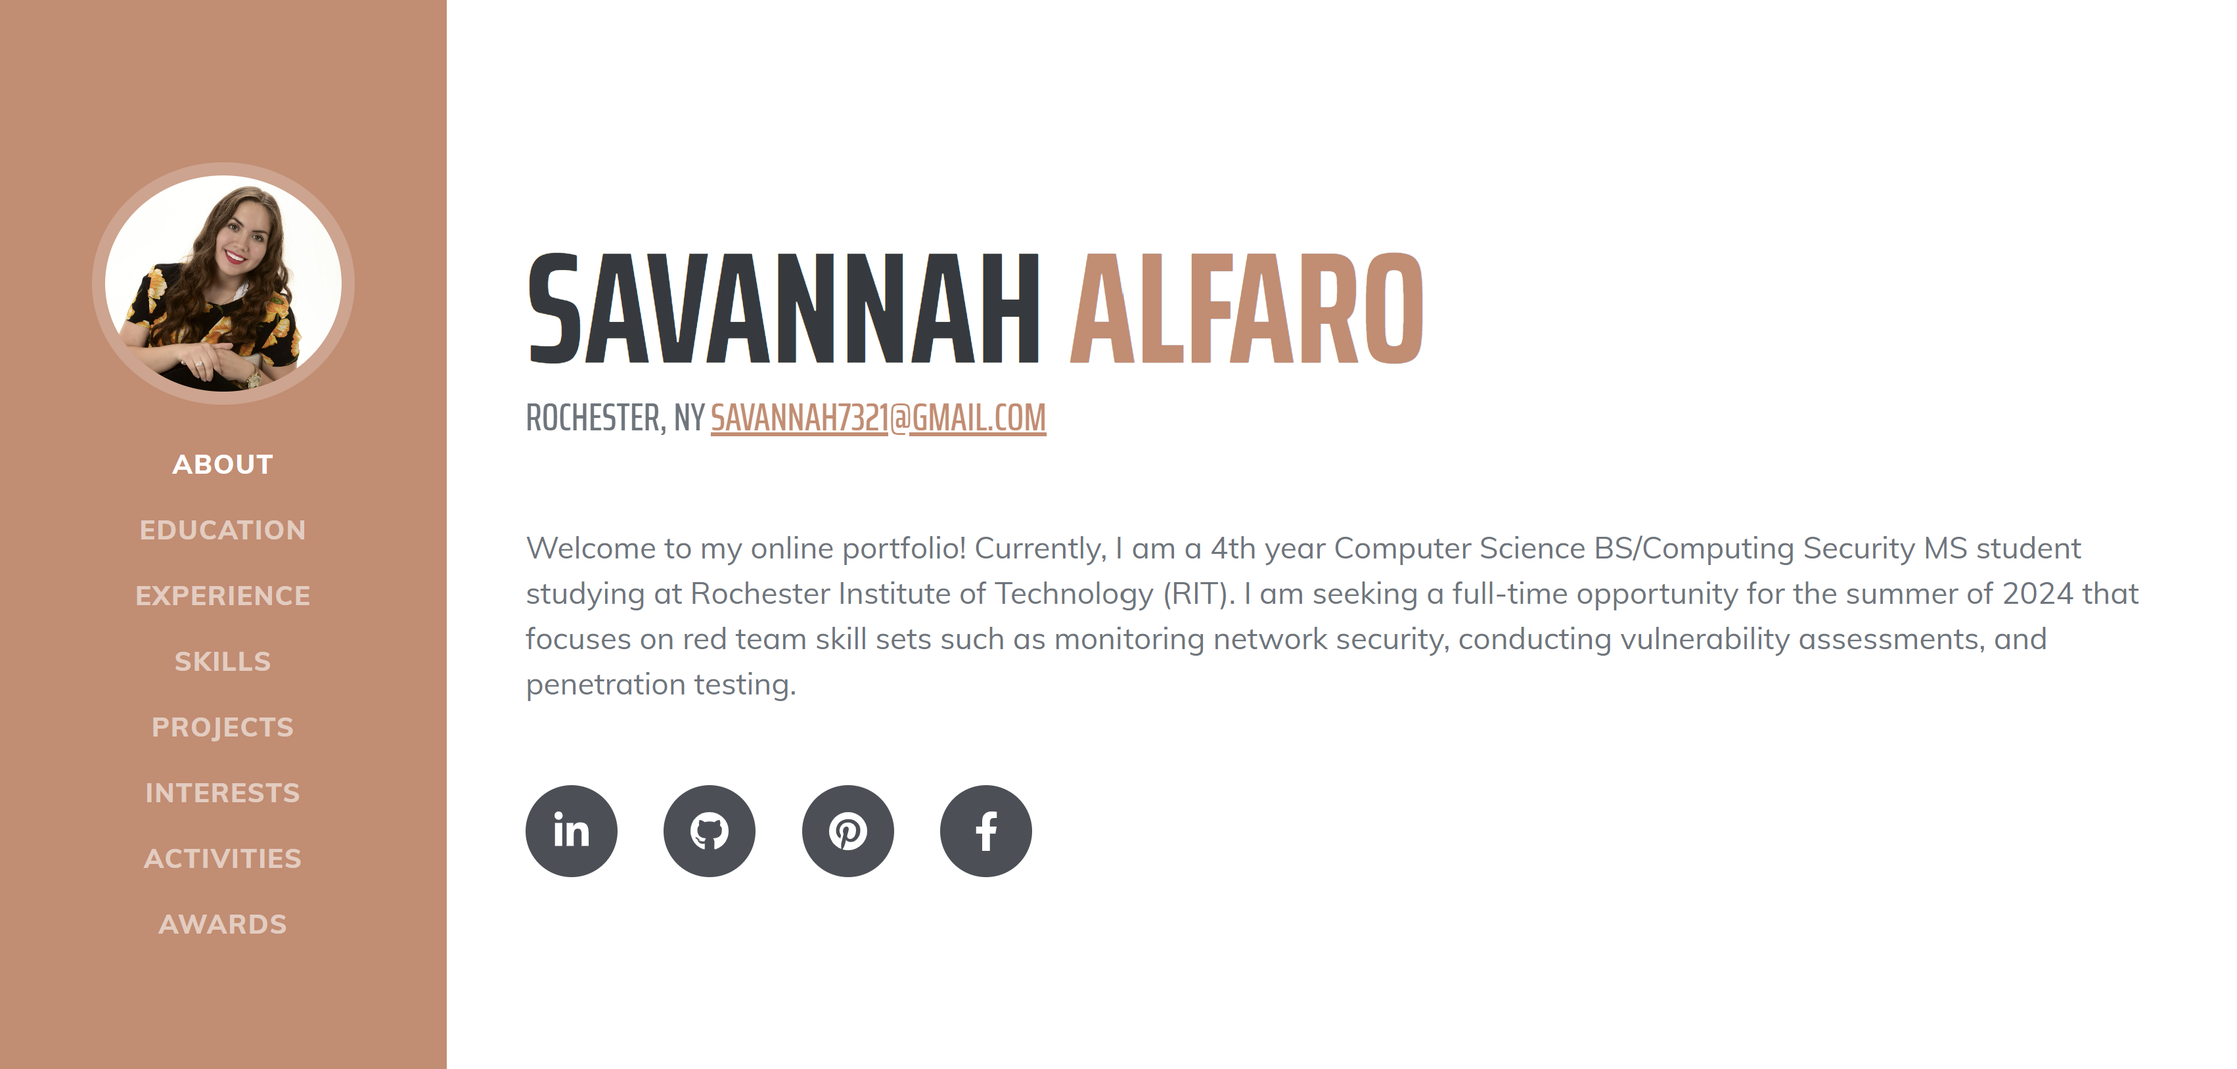
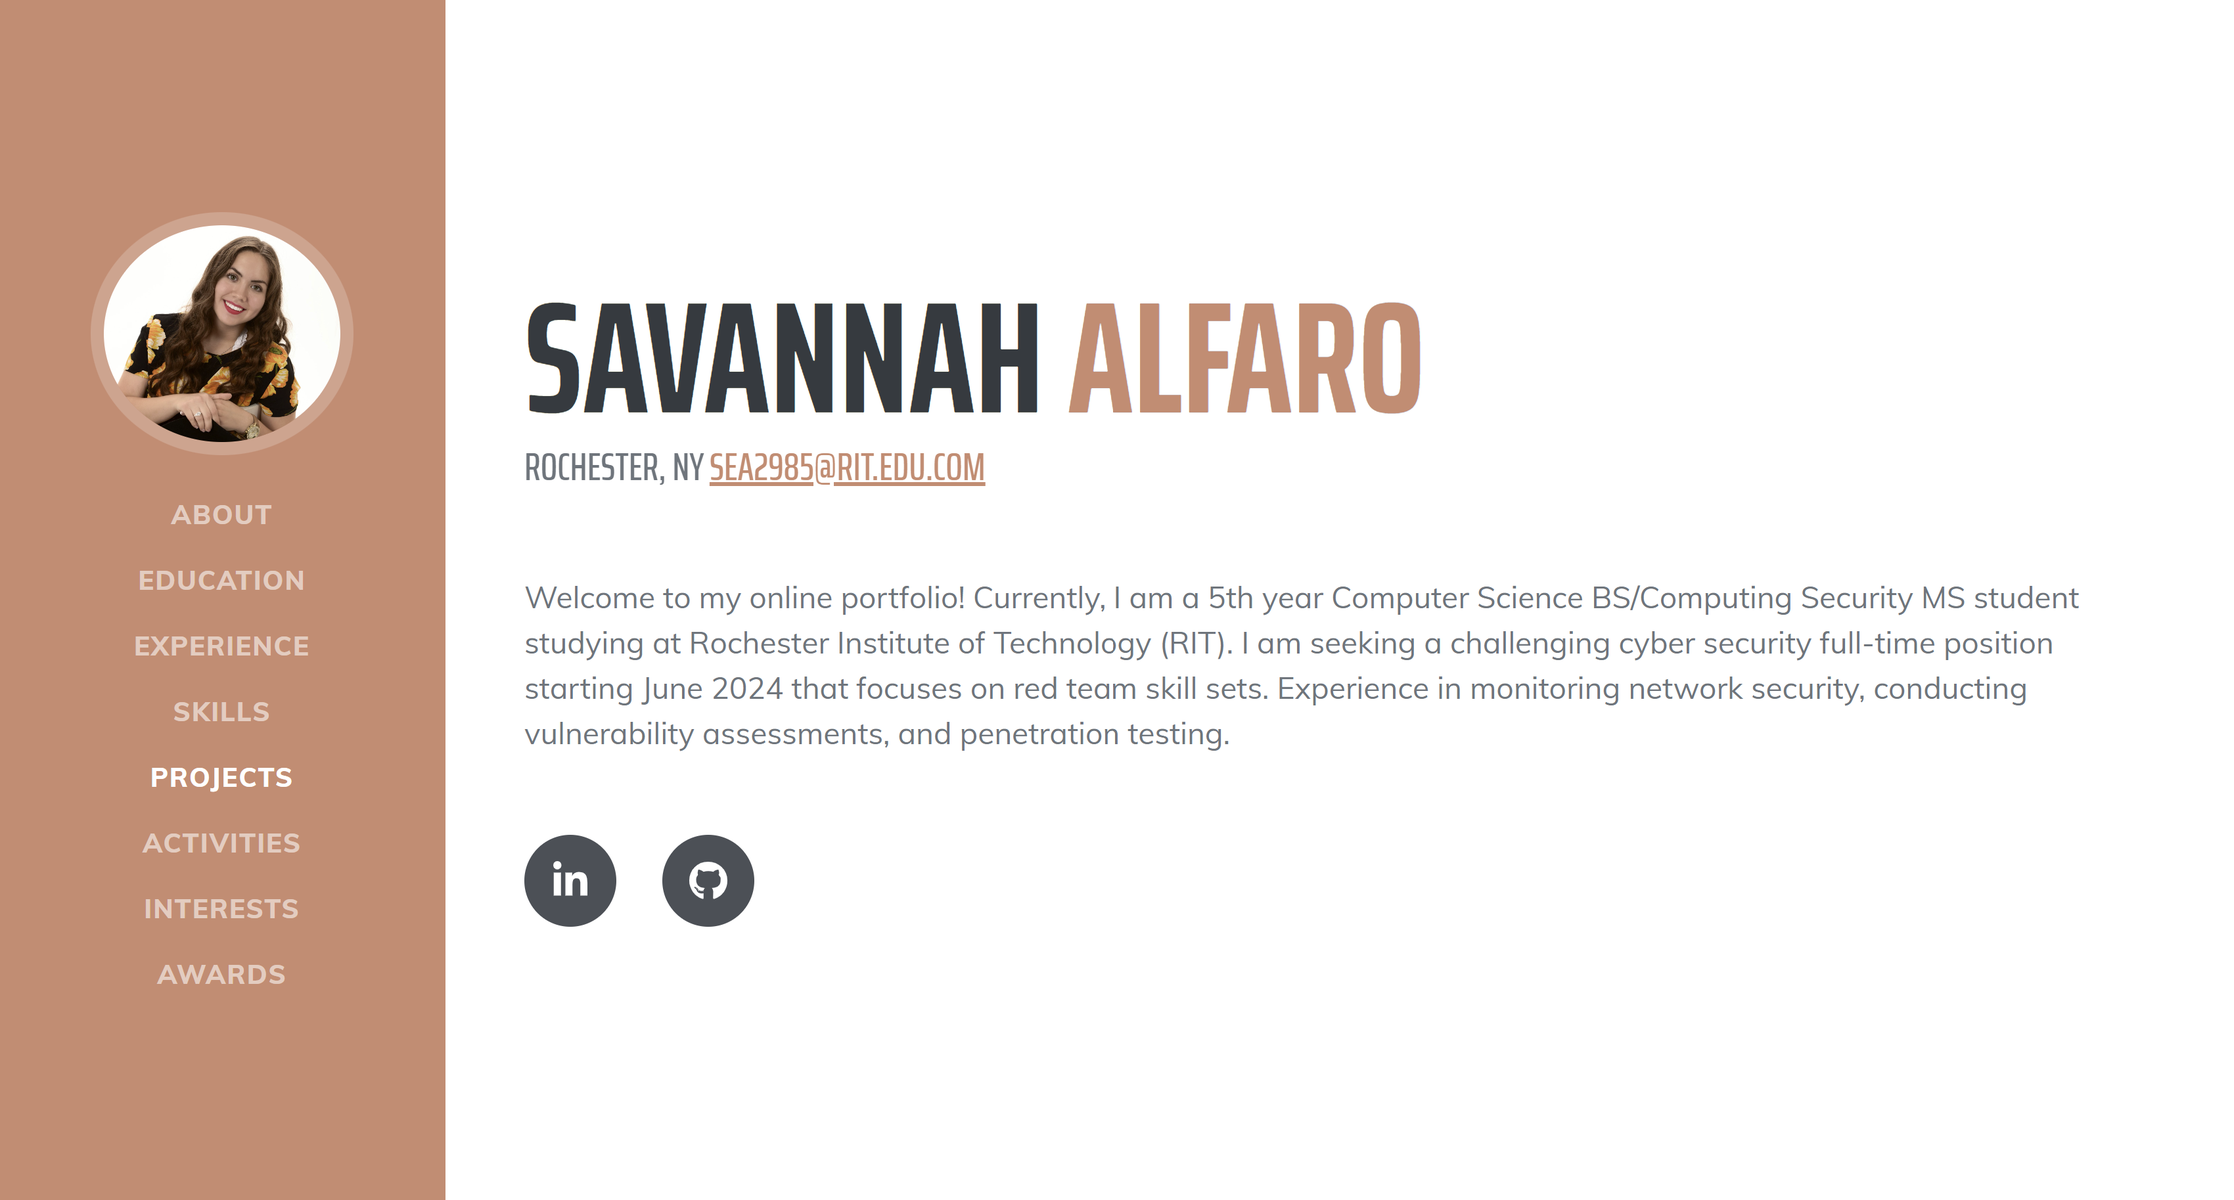
Updated page information 9/26/23

diff --git a/index.html b/index.html
@@ -35,7 +35,6 @@
                     <li class="nav-item"><a class="nav-link js-scroll-trigger" href="#experience">Experience</a></li>
                     <li class="nav-item"><a class="nav-link js-scroll-trigger" href="#skills">Skills</a></li>
                     <li class="nav-item"><a class="nav-link js-scroll-trigger" href="#projects">Projects</a></li>
-                    <li class="nav-item"><a class="nav-link js-scroll-trigger" href="#interests">Interests</a></li>
                     <li class="nav-item"><a class="nav-link js-scroll-trigger" href="#activities">Activities</a></li>
                     <li class="nav-item"><a class="nav-link js-scroll-trigger" href="#awards">Awards</a></li>
                 </ul>
@@ -52,20 +51,18 @@
                     </h1>
                     <div class="subheading mb-5">
                         Rochester, NY
-                        <a href="mailto:name@email.com">savannah7321@gmail.com</a>
+                        <a href="mailto:name@email.com">sea2985@rit.edu.com</a>
                     </div>
                     <p class="lead mb-5">
-                        Welcome to my online portfolio! Currently, I am a 4th year Computer Science BS/Computing
-                        Security MS student studying at Rochester Institute of Technology (RIT). I am seeking a full-time
-                        opportunity for the summer of 2024 that focuses on red team skill sets such as monitoring network
-                        security, conducting vulnerability assessments, and penetration testing.
-
+                        Welcome to my online portfolio! Currently, I am a 5th year Computer Science BS/Computing
+                        Security MS student studying at Rochester Institute of Technology (RIT). I am seeking a
+                        challenging cyber security full-time position starting June 2024 that focuses on red team skill
+                        sets. Experience in monitoring network security, conducting vulnerability assessments, and
+                        penetration testing.
                     </p>
                     <div class="social-icons">
                         <a class="social-icon" href="https://www.linkedin.com/in/savannahalfaro/"><i class="fab fa-linkedin-in"></i></a>
                         <a class="social-icon" href="https://github.com/sea7321"><i class="fab fa-github"></i></a>
-                        <a class="social-icon" href="https://www.pinterest.com/Savannah7321"><i class="fab fa-pinterest"></i></a>
-                        <a class="social-icon" href="https://www.facebook.com/SavannahAlfaro7321/"><i class="fab fa-facebook-f"></i></a>
                     </div>
                 </div>
             </section>
@@ -79,17 +76,19 @@
                         <div class="flex-grow-1">
                             <h3 class="mb-0">Rochester Institute of Technology</h3>
                             <div class="subheading mb-3">Bachelor of Science/Master of Science</div>
-                            <div>Computer Science - Computing Security</div>
-                            <p>GPA: 3.78</p>
+                            <div>BS Computer Science</div>
+                            <div>MS Computing Security</div>
+                            <div>Undergraduate GPA: 3.8</div>
+                            <div>Graduate GPA: 4.0</div>
                         </div>
                         <div class="flex-shrink-0"><span class="text-primary">August 2019 - May 2024</span></div>
                     </div>
                     <div class="d-flex flex-column flex-md-row justify-content-between mb-5">
                         <div class="flex-grow-1">
                             <div class="subheading mb-3">Related Courses</div>
-                            <p>Penetration Testing • Cyber Defense Techniques • Intro to Cryptography • Codes & Ciphers •
-                                Analysis of Algorithms • Mechanics of Programming • Concepts of Computer Systems •
-                                Fundamentals of Computing Security</p>
+                            <p>Penetration Testing • Cyber Defense Techniques • Info Security Policy & Law • Web Server
+                                and Application Security Audits • Foundations of Intelligent Security Systems • Intro to
+                                Cryptography • Codes & Ciphers • Covert Communications</p>
                         </div>
                     </div>
                 </div>
@@ -102,17 +101,17 @@
                     <h2 class="mb-5">Experience</h2>
                     <div class="d-flex flex-column flex-md-row justify-content-between mb-5">
                         <div class="flex-grow-1">
-                            <h3 class="mb-0">Software Engineer I</h3>
-                            <div class="subheading mb-3">Westelcom</div>
-                            <li>Collaborated as part of a software development team to design and test applications for least cost routing and server licenses.</li>
-                            <li>Programmed the rest APIs, databases, and web interfaces using Flask, SQLAlchemy, Hibernate, and ASP.NET.</li><br>
+                            <h3 class="mb-0">Advisory Red Team Intern</h3>
+                            <div class="subheading mb-3">Security Risk Advisors</div>
+                            <li>Conducted technical assessments including external, internal, web application, and physical assessments in addition to purple teams.</li>
+                            <li>Documented assessments as a part of reports and status updates.</li><br>
                         </div>
-                        <div class="flex-shrink-0"><span class="text-primary">May 2020 - Present</span></div>
+                        <div class="flex-shrink-0"><span class="text-primary">May 2023 - August 2023</span></div>
                     </div>
                     <div class="d-flex flex-column flex-md-row justify-content-between mb-5">
                         <div class="flex-grow-1">
                             <h3 class="mb-0">Security Analyst Intern</h3>
-                            <div class="subheading mb-3">Westelcom</div>
+                            <div class="subheading mb-3">Interactions LLC</div>
                             <li>Developed and administered programs including the Threat and Vulnerability Management Program and the Security Awareness Program.</li>
                             <li>Formulated policies, standards, and processes including the Threat & Vulnerability Standard and the Security Exception Request Process. </li><br>
                         </div>
@@ -120,8 +119,17 @@
                     </div>
                     <div class="d-flex flex-column flex-md-row justify-content-between mb-5">
                         <div class="flex-grow-1">
-                            <h3 class="mb-0">IT Security Intern</h3>
+                            <h3 class="mb-0">Software Engineer I</h3>
                             <div class="subheading mb-3">Westelcom</div>
+                            <li>Collaborated as part of a software development team to design and test applications for least cost routing and server licenses.</li>
+                            <li>Programmed the rest APIs, databases, and web interfaces using Flask, SQLAlchemy, Hibernate, and ASP.NET.</li><br>
+                        </div>
+                        <div class="flex-shrink-0"><span class="text-primary">May 2020 - July 2022</span></div>
+                    </div>
+                    <div class="d-flex flex-column flex-md-row justify-content-between mb-5">
+                        <div class="flex-grow-1">
+                            <h3 class="mb-0">IT Security Intern</h3>
+                            <div class="subheading mb-3">Erie Federal Credit Union</div>
                             <li>Utilized various tools such as Security Onion, Pwnie Express, and Rapid7 InsightVM to monitor network security, intrusion detection, and risk assessment as a part of the IT security team.</li>
                             <li>Assisted in security awareness training of employees, including developing a solution for a company-wide password manager.</li><br>
                         </div>
@@ -141,7 +149,7 @@
                         <li class="list-inline-item"><i class="fab fa-java"></i></li>
                         <li class="list-inline-item"><i class="fab fa-js-square"></i></li>
                         </ul>
-                    <p>Python • Java • C • C++ • C# • Javascript • ARM Assembly</p>
+                    <p>Python • Java • C • C++ • C# • MIPS Assembly</p>
                     <hr>
 
                     <div class="subheading mb-3" style="color: #D48A6EFF">Web Technologies</div>
@@ -167,8 +175,8 @@
                         <li class="list-inline-item"><i class="fas fa-hammer"></i></li>
                         <li class="list-inline-item"><i class="fas fa-hard-hat"></i></li>
                     </ul>
-                    <p>Computer Networking Network Forensics • Shell Scripting OSINT • Password Cracking Cryptography •
-                        Physical Security Computer Architecture (MIPS)</p>
+                    <p>Penetration Testing • Physical Security • Computer Networking • Network Forensics •
+                        Password Cracking • Cryptography • Risk Management • Artificial Intelligence • Machine Learning</p>
                     <hr>
 
                     <div class="subheading mb-3" style="color: #D48A6EFF">Software/Tools</div>
@@ -181,8 +189,8 @@
                         <li class="list-inline-item"><i class="devicon-ssh-original"></i>
                         <li class="list-inline-item"><i class="devicon-vim-plain"></i>
                     </ul>
-                    <p>Kali Linux • Git Metasploit • Nmap • Wireshark Powershell • Bash • ExifTool • CeWL THC Hydra •
-                        Hashcat • Wfuzz OphCrack • Pdfid • Steghide • Burp Suite • Ansible</p>
+                    <p>Kali Linux • Metasploit • Burp Suite • Nessus • Rapid7 • Ansible Docker • Nmap • Wireshark •
+                        Sqlmap • Wpscan • ExifTool • CeWL • Hydra • Hashcat • Wfuzz • OphCrack • Pdfid • Steghide • Git • Powershell • Bash • Weka</p>
                 </div>
             </section>
             <hr class="m-0" />
@@ -193,69 +201,29 @@
                     <h2 class="mb-5">Projects</h2>
                     <div class="d-flex flex-column flex-md-row justify-content-between mb-5">
                         <div class="flex-grow-1">
-                            <div class="subheading mb-3">Web Checkers</div>
-                            <p>An online game of checkers that uses Spark, a micro web framework, to play a game of checkers
-                                between players. Features a login page, player statistics, spectators, a play again button,
-                                and a hint button.</p>
+                            <div class="subheading mb-3">Malware Static Analyzer</div>
+                            <p>A simple analysis tool that aids in the recognition of malicious executable files by
+                                examining PE file headers, imported DLLs, and function calls.</p>
+                            <p>Detection is currently being improved by using various data mining techniques including
+                                neural networks, support vector machines, etc.</p>
                         </div>
-                        <div class="flex-shrink-0"><span class="text-primary">January 2021 - May 2021</span></div>
+                        <div class="flex-shrink-0"><span class="text-primary">January 2022 - Present</span></div>
                     </div>
                     <div class="d-flex flex-column flex-md-row justify-content-between mb-5">
                         <div class="flex-grow-1">
                             <div class="subheading mb-3">SNMP Discovery</div>
                             <p>Uses the SNMP protocol to figure out what port and switch a particular device is on, given a device's MAC address. Queries data from each switch using snmpwalk, AMAP, and link aggregation until the correct/predicted port and switch is found.</p>
                         </div>
+                        <div class="flex-shrink-0"><span class="text-primary">December 2021</span></div>
                     </div>
                     <div class="d-flex flex-column flex-md-row justify-content-between mb-5">
                         <div class="flex-grow-1">
                             <div class="subheading mb-3">Cryptography Toolkit</div>
                             <p>Includes several useful algorithms for cryptography including Extended Euclidean, Square and Multiply, and Russian Peasant algorithm. Also includes scripts for Fermat's and Miller-Rabin primality tests.</p>
                         </div>
+                        <div class="flex-shrink-0"><span class="text-primary">January 2022</span></div>
                     </div>
                 </div>
-            </section>
-            <hr class="m-0" />
-
-            <!-- Interests-->
-            <section class="resume-section" id="interests">
-                <div class="resume-section-content">
-                    <h2 class="mb-5">Interests</h2>
-                    <div class="subheading mb-3">Gaming/Streaming & PC Building</div>
-                    <ul class="list-inline dev-icons">
-                        <li class="list-inline-item"><i class="fas fa-desktop"></i></li>
-                        <li class="list-inline-item"><i class="fab fa-playstation"></i></li>
-                        <li class="list-inline-item"><i class="fas fa-gamepad"></i></li>
-                        <li class="list-inline-item"><i class="fab fa-twitch"></i></li>
-                    </ul>
-                    <p>Apart of being a software developer, one of my favorite things to do in my pastime is play
-                        video games on my custom built PC or Playstation. In addition, I stream most commonly
-                        virtual reality (VR) games on Twitch.</p>
-
-                    <div class="subheading mb-3">Cooking/Baking, Graphic Design, & Music</div>
-                    <ul class="list-inline dev-icons">
-                        <li class="list-inline-item"><i class="fas fa-cookie-bite"></i></li>
-                        <li class="list-inline-item"><i class="fas fa-pencil-ruler"></i></li>
-                        <li class="list-inline-item"><i class="fas fa-music"></i></li>
-                    </ul>
-                    <p>On the more creative side, I also enjoy cooking and baking during my free time. Some of my
-                        favorite desserts include brown butter sea salt chocolate chip cookies and berries trifle,
-                        which is a vanilla pudding, cream cheese, and whipped cream mixture layered with berries and
-                        angel food cake.</p>
-                    <p>In addition to cooking and baking, I draw graphics for my Twitch channel and
-                        sing during my free time.</p>
-
-                    <div class="subheading mb-3">Horseback Riding & Traveling</div>
-                    <ul class="list-inline dev-icons">
-                        <li class="list-inline-item"><i class="fas fa-horse"></i></li>
-                        <li class="list-inline-item"><i class="fas fa-plane"></i></li>
-                        <li class="list-inline-item"><i class="fas fa-globe-americas"></i></li>
-                    </ul>
-                    <p>Ever since I was five years old, I have been riding/taking care of horses. Being around horses
-                        have taught me so much growing up. I learned discipline, caring for others, and most of all
-                        how to work.</p>
-                    <p>Consequently, I learned to love to travel and explore. I love trying new authentic
-                        foods and seeing different cultures.</p>
-                    </div>
             </section>
             <hr class="m-0" />
 
@@ -266,18 +234,17 @@
                     <div class="d-flex flex-column flex-md-row justify-content-between mb-5">
                         <div class="flex-grow-1">
                             <div class="subheading mb-3">Women in Computing at RIT (WiC)</div>
-                            <li>WiC is a student club committed to promoting the success of women and gender minorities within computing fields.</li>
-                            <li>committee where we coordinate and engage in K-12 activities within the community.</li><br>
+                            <li>Launched an initiative to increase graduate services and networks available to current students to help encourage women and gender minorities to further their education beyond the undergraduate level.</li>
+                            <li>Previous Outreach committee head where we coordinated and engaged in K-12 activities within the community. Organized and ran multiple events including ROCGirl Hacks and After Hours.</li><br>
                         </div>
                         <div class="flex-shrink-0"><span class="text-primary">August 2019 - Present</span></div>
                     </div>
                     <div class="d-flex flex-column flex-md-row justify-content-between mb-5">
                         <div class="flex-grow-1">
-                            <div class="subheading mb-3">RITSEC</div>
-                            <li>RITSEC is a student run club dedicated to teaching "Security Through Community."</li>
-                            <li>Involved in RITSEC meetings, where we gain hands-on experience through security presentations and exercises.</li><br>
+                            <div class="subheading mb-3">Women in Cybersecurity (WiCyS)</div>
+                            <li>Involved within RIT WiCyS meetings where we support the recruitment, retention, and advancement of women in cybersecurity.</li><br>
                         </div>
-                        <div class="flex-shrink-0"><span class="text-primary">January 2022 - Present</span></div>
+                        <div class="flex-shrink-0"><span class="text-primary">August 2023 - Present</span></div>
                     </div>
                 </div>
             </section>
@@ -316,6 +283,10 @@
                         <li>
                             <span class="fa-li"><i class="fas fa-trophy"></i></span>
                             WiCHacks 2021 - Best Domain Name
+                        </li>
+                        <li>
+                            <span class="fa-li"><i class="fas fa-trophy"></i></span>
+                            WiCHacks 2022 - Best Data Hack
                         </li>
                     </ul>
                 </div>
